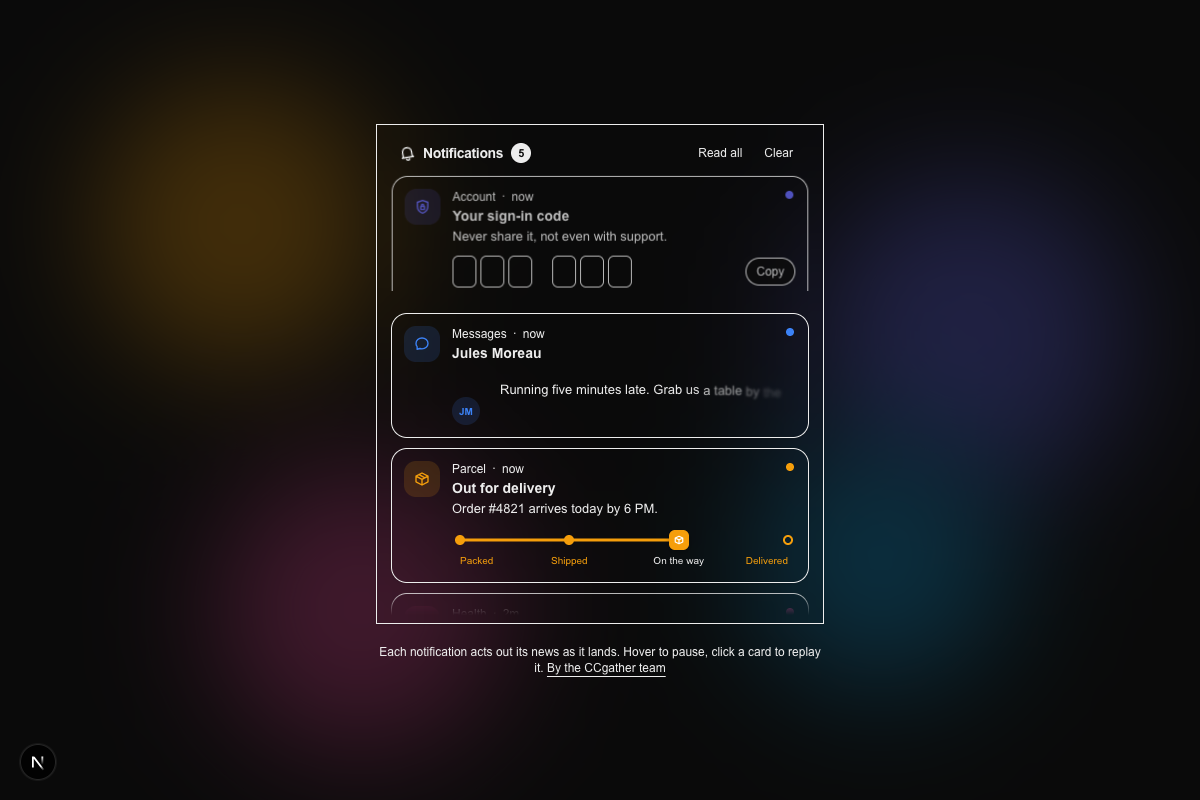
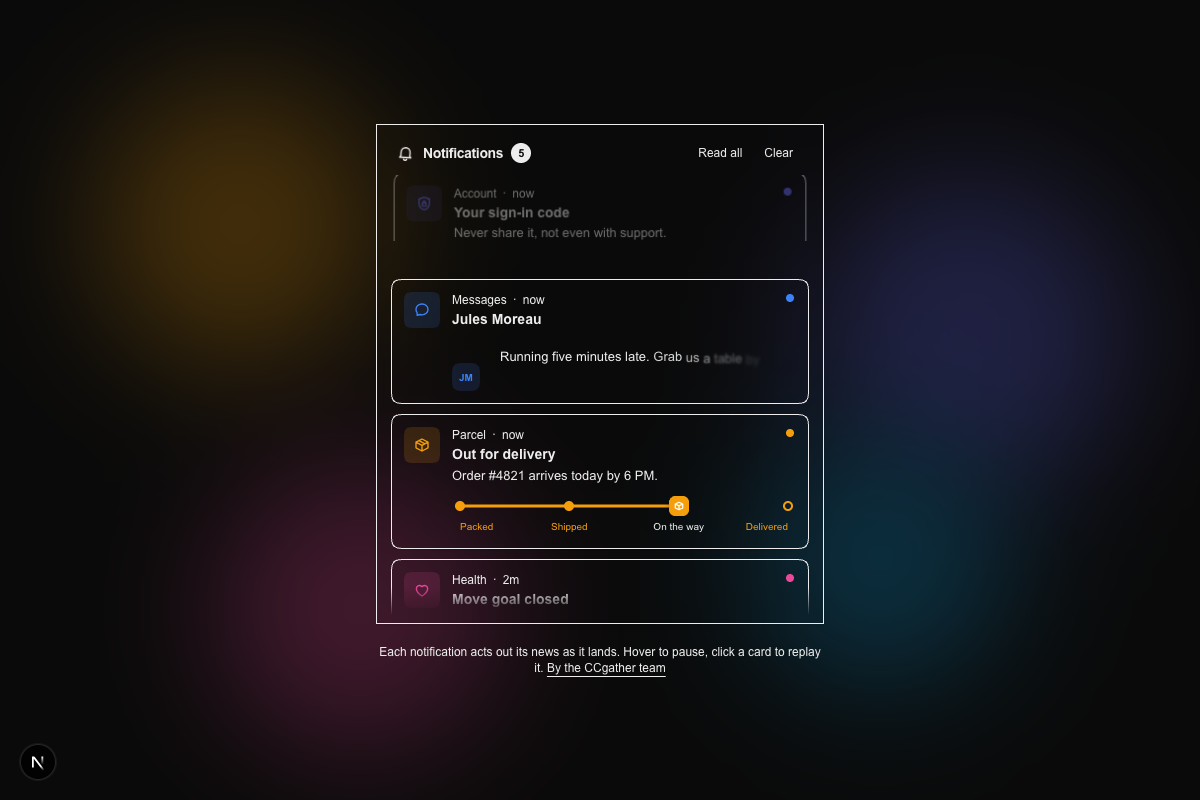
refactor: apply squircle corner shape utility to UI components and update preview asset

diff --git a/live-notification-feed/src/components/ui/live-notification-feed.tsx b/live-notification-feed/src/components/ui/live-notification-feed.tsx
@@ -97,6 +97,7 @@ const SETTLE = "cubic-bezier(0.2, 0.8, 0.2, 1)";
 const EXIT = "cubic-bezier(0.4, 0, 0.2, 1)";
 const DEFAULT_HEIGHT = "min(440px, calc(100svh - 12rem))";
 const TINT = "color-mix(in oklab, currentColor 15%, transparent)";
+const SQUIRCLE = "[corner-shape:squircle]";
 const REEL = Array.from({ length: 20 }, (_, i) => i % 10);
 const FLAP_CHARS = " ABCDEFGHIJKLMNOPQRSTUVWXYZ0123456789";
 const ROUTE = "M12 44 C 44 44, 54 14, 98 17 S 158 46, 198 35 S 248 13, 284 16";
@@ -178,9 +179,9 @@ function AppTile({ kind, accent, play, delay, reduced }: { kind: NotificationKin
     return () => animation?.cancel();
   }, [play, delay, reduced]);
   return (
-    <span data-tile className={cx("relative grid size-9 shrink-0 place-items-center rounded-xl", !accent && "text-primary")} style={{ color: accent, background: TINT }}>
+    <span data-tile className={cx("relative grid size-9 shrink-0 place-items-center rounded-xl", SQUIRCLE, !accent && "text-primary")} style={{ color: accent, background: TINT }}>
       <Icon d={ICONS[kind]} className="size-4.5" />
-      <span ref={ringRef} aria-hidden className="pointer-events-none absolute inset-0 rounded-xl border-2 border-current opacity-0" />
+      <span ref={ringRef} aria-hidden className={cx("pointer-events-none absolute inset-0 rounded-xl border-2 border-current opacity-0", SQUIRCLE)} />
     </span>
   );
 }
@@ -233,10 +234,10 @@ function MessageDetail({ item, play, delay, reduced }: StoryProps & { item: Mess
   const words = item.text.split(/\s+/).filter(Boolean);
   return (
     <div data-detail="message" className="flex items-end gap-2">
-      <span aria-hidden className="grid size-7 shrink-0 place-items-center rounded-full text-[10px] font-semibold" style={{ background: TINT }}>
+      <span aria-hidden className={cx("grid size-7 shrink-0 place-items-center rounded-full text-[10px] font-semibold", SQUIRCLE)} style={{ background: TINT }}>
         {initialsOf(item.from)}
       </span>
-      <div className="min-w-0 rounded-2xl rounded-bl-md bg-muted px-3 py-2 text-[13px] leading-snug text-foreground">
+      <div className={cx("min-w-0 rounded-2xl rounded-bl-md bg-muted px-3 py-2 text-[13px] leading-snug text-foreground", SQUIRCLE)}>
         {typing ? (
           <span ref={dotsRef} aria-hidden data-typing className="flex h-4.5 items-center gap-1">
             <span className="size-1.5 rounded-full bg-muted-foreground" />
@@ -403,7 +404,7 @@ function RideDetail({ item, play, delay, reduced }: StoryProps & { item: RideNot
 
   return (
     <div data-detail="ride" data-eta={eta}>
-      <div className="relative overflow-hidden rounded-xl border border-border bg-muted/60">
+      <div className={cx("relative overflow-hidden rounded-xl border border-border bg-muted/60", SQUIRCLE)}>
         <svg viewBox="0 0 300 60" aria-hidden className="block h-auto w-full">
           <g className="text-border" stroke="currentColor" strokeWidth={6} strokeLinecap="round" fill="none">
             <path d="M-10 30 H 310" />
@@ -506,7 +507,7 @@ function PaymentDetail({ item, play, delay, reduced }: StoryProps & { item: Paym
 
 function DateSheet({ day, locale }: { day: Date; locale: string }) {
   return (
-    <div className="absolute inset-0 overflow-hidden rounded-lg border border-border bg-card shadow-sm" style={{ transformOrigin: "50% 0%", backfaceVisibility: "hidden" }}>
+    <div className={cx("absolute inset-0 overflow-hidden rounded-lg border border-border bg-card shadow-sm", SQUIRCLE)} style={{ transformOrigin: "50% 0%", backfaceVisibility: "hidden" }}>
       <div style={{ background: "currentColor" }}>
         <span className="block text-center text-[9px] font-semibold uppercase leading-[15px] tracking-wide text-white">{day.toLocaleDateString(locale, { month: "short" })}</span>
       </div>
@@ -663,7 +664,7 @@ function CodeDetail({ item, play, delay, reduced }: StoryProps & { item: CodeNot
           {digits.map((digit, i) => (
             <React.Fragment key={i}>
               {i === half && <span aria-hidden className="mx-0.5 h-px w-2 bg-border" />}
-              <span className={cx("grid h-8 w-6 place-items-center rounded-md border border-border bg-background font-mono text-base font-semibold text-foreground", expired && "opacity-40")}>
+              <span className={cx("grid h-8 w-6 place-items-center rounded-md border border-border bg-background font-mono text-base font-semibold text-foreground", SQUIRCLE, expired && "opacity-40")}>
                 <span data-digit>{digit}</span>
               </span>
             </React.Fragment>
@@ -747,7 +748,7 @@ function FlightDetail({ item, play, delay, reduced }: StoryProps & { item: Fligh
         <span className="text-[10px] font-medium uppercase tracking-wider text-muted-foreground">Gate</span>
         <span ref={flapsRef} data-gate={item.gate} className="flex gap-0.5 [perspective:200px]">
           {Array.from(target).map((ch, i) => (
-            <span key={i} className="relative grid h-7 w-5 place-items-center overflow-hidden rounded-[4px] bg-foreground font-mono text-sm font-bold text-background">
+            <span key={i} className={cx("relative grid h-7 w-5 place-items-center overflow-hidden rounded-[4px] bg-foreground font-mono text-sm font-bold text-background", SQUIRCLE)}>
               <span data-flap className="block">
                 {ch}
               </span>
@@ -937,7 +938,7 @@ function NotificationCard({
         <div className="px-1 pb-2 pt-0.5">
           <article
             aria-label={`${item.app}: ${item.title}`}
-            className="group relative rounded-2xl border border-border bg-card p-3 text-card-foreground shadow-sm"
+            className={cx("group relative rounded-2xl border border-border bg-card p-3 text-card-foreground shadow-sm", SQUIRCLE)}
             style={{ transform: shown ? "none" : entry.leaving ? "translateX(18%) scale(0.98)" : "translateY(-16px) scale(0.96)", opacity: shown ? 1 : 0, transition: cardTransition }}
           >
             <div className="flex gap-3">
@@ -1221,7 +1222,7 @@ export function LiveNotificationFeed({
       ref={ref}
       data-slot="live-notification-feed"
       data-unread={unread}
-      className={cx("w-full rounded-7 border border-border bg-muted/60 p-2 text-foreground shadow-sm backdrop-blur-xl", className)}
+      className={cx("w-full rounded-7 border border-border bg-muted/60 p-2 text-foreground shadow-sm backdrop-blur-xl", SQUIRCLE, className)}
       onPointerEnter={(event) => {
         pause(true);
         onPointerEnter?.(event);
